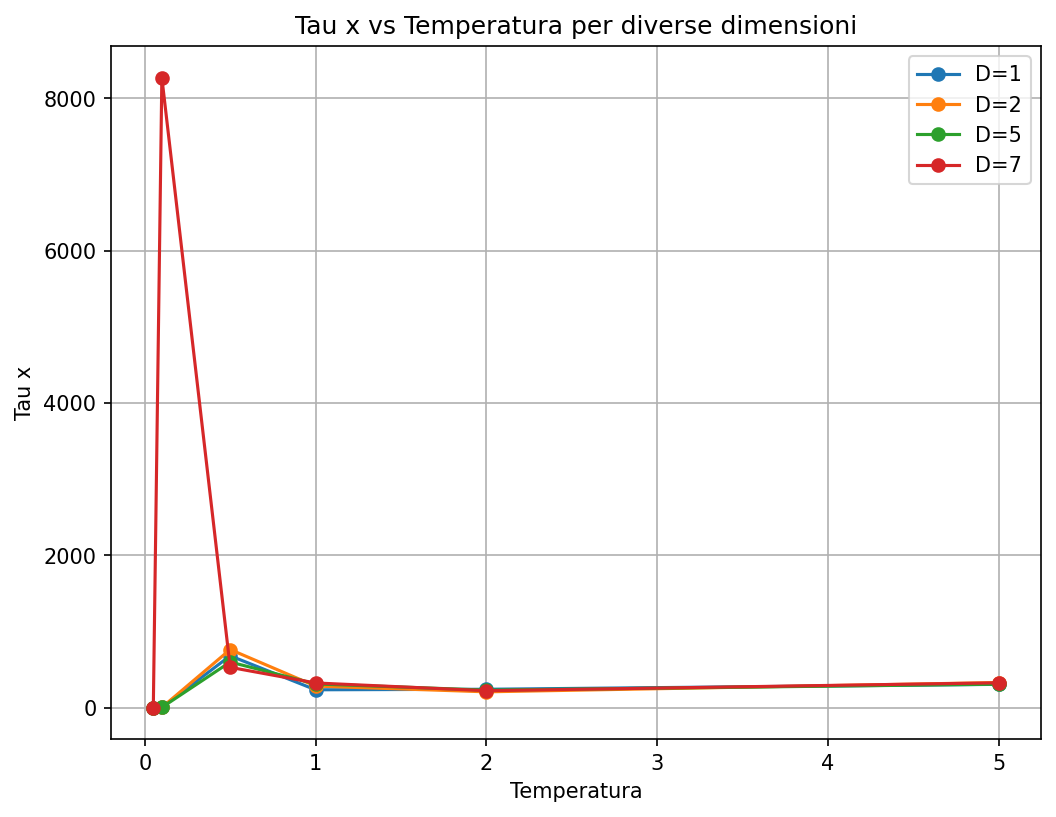
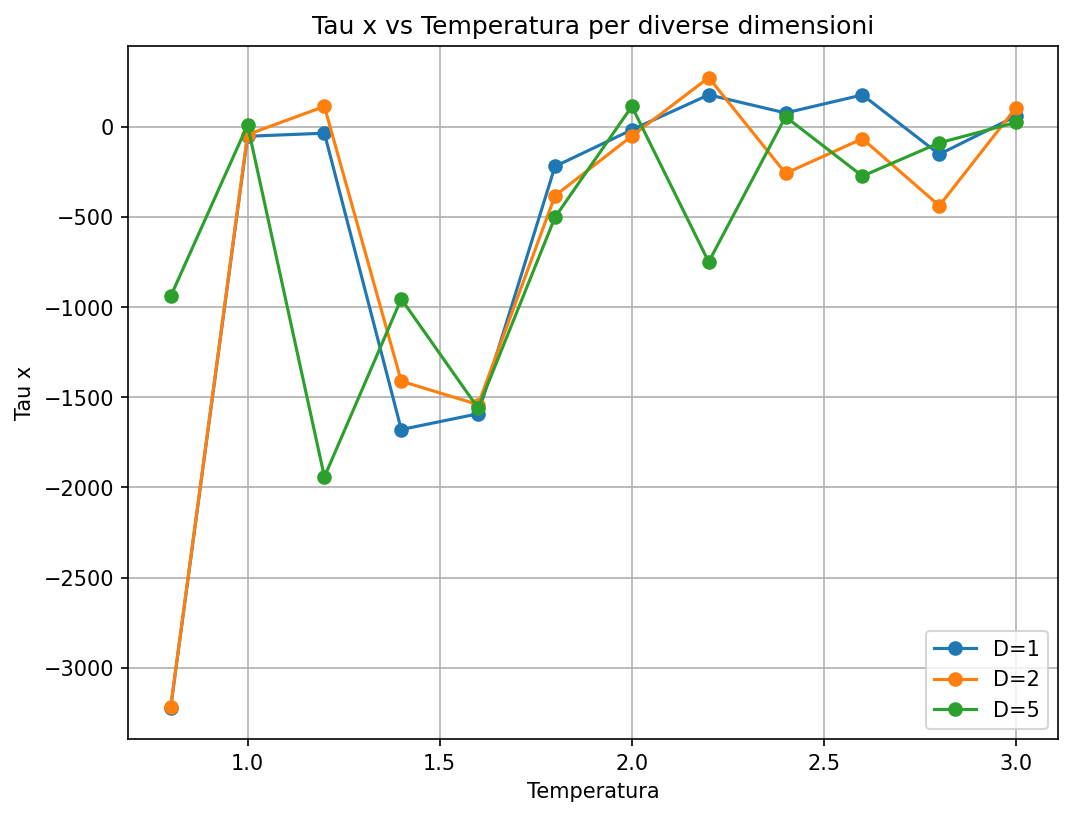
minor changes, runned the code, result in report

diff --git a/source/observable.py b/source/observable.py
@@ -1,23 +1,41 @@
 import jax 
 import jax.numpy as jnp
 
+def blocking_error(data, block_size):
+    n_blocks = len(data) // block_size
+    data = data[:n_blocks * block_size]
+
+    blocks = data.reshape(n_blocks, block_size)
+    means = jnp.mean(blocks, axis=1)
+
+    err = jnp.sqrt(jnp.var(means)/(n_blocks-1))
+
+    return err
+
 @jax.jit
 def V(x, a=1.0, b=1.0):
     if x.shape[0] == 1:
         return a * (x[0]**2 - b)**2
     else:
         return a * (x[0]**2 - b)**2 + 0.5 * jnp.sum(x[1:]**2)
-    
-def mean_energy(trajectory):
-    energies = jax.vmap(V)(trajectory)
-    return jnp.mean(energies)
 
-def heat_capacity(trajectory, T):
+def mean_energy(trajectory, block_size):
+    energies = jax.vmap(V)(trajectory)
+    mean_energy = jnp.mean(energies)
+    # error on mean energy using blocking
+    E_mean_err = blocking_error(energies, block_size)
+    return mean_energy, E_mean_err
+
+def heat_capacity(trajectory, T, block_size):
     energies = jax.vmap(V)(trajectory)
     mean_E = jnp.mean(energies)
     mean_E2 = jnp.mean(energies**2)
     Cv = (mean_E2 - mean_E**2) / (T**2)
-    return Cv
+    # error on Cv using blocking
+    E_mean_err = blocking_error(energies, block_size)
+    E_2_mean_err = blocking_error(energies**2, block_size)
+    Cv_err = jnp.sqrt((E_2_mean_err**2 + 4*mean_E**2*E_mean_err**2) / (T**4))
+    return Cv, Cv_err
 
 def autocorrelation(x):
     x = x - jnp.mean(x)
@@ -36,48 +54,22 @@ def integrated_autocorrelation_time(x, c=5.0):
     tau = 0.5
     for t in range(1, len(corr)):
         tau += corr[t]
-        if t >= c * tau:  # stop when t exceeds c times the current estimate of tau
-            break
     return tau
-
-def barrier_crossings_rate(trajectory, eps=1e-3):
-    x = trajectory[:,0]
-
-    valid = jnp.abs(x) > eps
-    x = x[valid]
-
-    signs = jnp.sign(x)
-
-    return jnp.sum(signs[:-1] * signs[1:] < 0)/len(x) # rate of crossings per unit time
-
-def blocking_error(data, block_size):
-    n_blocks = len(data) // block_size
-    data = data[:n_blocks * block_size]
-
-    blocks = data.reshape(n_blocks, block_size)
-    means = jnp.mean(blocks, axis=1)
-
-    err = jnp.sqrt(jnp.var(means)/(n_blocks-1))
-
-    return err
 
 def append_observables(results, trajectories, D, T, trajectory, acceptance_rate):
     tau_x= integrated_autocorrelation_time(trajectory[:,0])
-    block_size = max(10, 2*int(tau_x))
-    E_mean = mean_energy(trajectory)
-    E_mean_err = blocking_error(jax.vmap(V)(trajectory), block_size)
-    Cv = heat_capacity(trajectory, T)
-    crossings_r = barrier_crossings_rate(trajectory)
-    crossings_r_err = jnp.sqrt(crossings_r)/len(trajectory[:,0])  # standard error assuming Poisson distribution
+    block_size = int(jnp.maximum(10, 5*tau_x))
+    E_mean, E_mean_err = mean_energy(trajectory, block_size)
+    Cv, Cv_err = heat_capacity(trajectory, T, block_size)
 
     results[D]["T"].append(T)
+    
     results[D]["E_mean"].append(E_mean)
     results[D]["E_mean_err"].append(E_mean_err)
     results[D]["Cv"].append(Cv)
+    results[D]["Cv_err"].append(Cv_err)
     results[D]["acceptance"].append(acceptance_rate)
     results[D]["tau_x"].append(tau_x)
-    results[D]["barrier_crossings_rate"].append(crossings_r)
-    results[D]["barrier_crossings_rate_err"].append(crossings_r_err)
 
     trajectories[D].append(trajectory[:,0])
     

diff --git a/source/metropolis.py b/source/metropolis.py
@@ -3,26 +3,27 @@ import jax.numpy as jnp
 import functools
 import observable as obs
 
-@functools.partial(jax.jit, static_argnums=(1,2))
 def generate_config(key, D, type="uniform"):
-    key, subkey = jax.random.split(key)
     if type == "uniform":
-        x = jax.random.uniform(subkey, shape=(D,))
+        return generate_uniform_vec(key, D)
     elif type == "normal":
-        x = jax.random.normal(subkey, shape=(D,))
+        return generate_normal_vec(key, D)
     elif type == "zeros":
-        x = jnp.zeros(D)
+        return jnp.zeros(D), key
     elif type == "ones":
-        x = jnp.ones(D)
+        return jnp.ones(D), key
     else:
-        raise ValueError(f"Tipo di configurazione sconosciuto: {type}")
-    return x, key
+        raise ValueError("Tipo non valido")
 
 @functools.partial(jax.jit, static_argnums=(1,))
-def generate_normal(key,D):
+def generate_uniform_vec(key, D):
     key, subkey = jax.random.split(key)
-    x = jax.random.normal(subkey, shape=(D,))
-    return x, key
+    return jax.random.uniform(subkey, shape=(D,)), key
+
+@functools.partial(jax.jit, static_argnums=(1,))
+def generate_normal_vec(key, D):
+    key, subkey = jax.random.split(key)
+    return jax.random.normal(subkey, shape=(D,)), key
     
 @jax.jit
 def generate_uniform(key):
@@ -36,13 +37,13 @@ def metropolis_acceptance(delta_E, T):
     return A
 
 @jax.jit
-def metropolis_step(x, key, T, step_size=0.1):
+def metropolis_step(x, key, T, step_size=0.1, a=1.0, b=1.0):
     D = x.shape[0]
     # new proposed configuration
-    eta, key = generate_normal(key,D)
+    eta, key = generate_normal_vec(key,D)
     x_proposed = x + step_size * eta
     # delta energy between new and old configuration
-    delta_E = obs.V(x_proposed) - obs.V(x)
+    delta_E = obs.V(x_proposed,a,b) - obs.V(x,a,b)
     # acceptance of the new configuration
     accept_prob = metropolis_acceptance(delta_E, T)
     u, key = generate_uniform(key)
@@ -51,7 +52,7 @@ def metropolis_step(x, key, T, step_size=0.1):
     return x_new, key, accept
 
 @functools.partial(jax.jit, static_argnums=(2,))
-def run_simulation(key, T, n_steps, step_size=0.1, initial_x=None):
+def run_simulation(key, T, n_steps, step_size=0.1, initial_x=None, a=1.0, b=1.0):
     if initial_x is None:
         raise ValueError("initial_x must be provided")
     
@@ -59,7 +60,7 @@ def run_simulation(key, T, n_steps, step_size=0.1, initial_x=None):
 
     def body(carry, _):
         x, key, acc = carry
-        x, key, accepted = metropolis_step(x, key, T, step_size)
+        x, key, accepted = metropolis_step(x, key, T, step_size, a, b)
         return (x, key, acc + accepted), x
 
     (x, key, acceptances), trajectory = jax.lax.scan(

diff --git a/source/main.py b/source/main.py
@@ -6,11 +6,14 @@ import jax.numpy as jnp
 
 
 def main():
-    dimensions = [1, 2, 5, 7]
-    temperatures = [0.05 ,0.1, 0.5, 1.0, 2.0, 5.0]
-    n_thermalization = 200000
-    n_steps = 100000
-    step_size = 0.1
+    dimensions = [1, 2, 5]
+    temperatures = jnp.linspace(0.5, 3.0, 6)
+    n_thermalization = 100000
+    n_steps = 10000
+    step_size = 0.2
+    # potential parameters
+    a = 1.0
+    b = 2.0
 
     trajectories = {}
     results = {}
@@ -25,29 +28,28 @@ def main():
             "Cv": [],
             "Cv_err": [],
             "acceptance": [],
-            "tau_x": [],
-            "barrier_crossings_rate": [],
-            "barrier_crossings_rate_err": []
+            "tau_x": []
         }
 
         key = jax.random.PRNGKey(0)
         x, key = metro.generate_config(key, D, "ones")
 
         for T in temperatures:
-            # thermalization
-            _, _, key , x = metro.run_simulation(key, T, n_thermalization, step_size, initial_x=x)
+            # thermalization 
+            _, _, key , x = metro.run_simulation(key, T, n_thermalization, step_size, initial_x=x, a=a, b=b)
+            # x is the last configuration of the thermalization, used as initial configuration for the production
             # production
             trajectory, acceptance_rate, key , x = metro.run_simulation(
-                key, T, n_steps, step_size, initial_x=x)
+                key, T, n_steps, step_size, initial_x=x, a=a, b=b)
+            # x is the last configuration of the trajectory, used as initial configuration for the next temperature
             # append observables to results
             obs.append_observables(results,trajectories, D, T, trajectory, acceptance_rate)
             print(f"D={D}, T={T:.3f}.")
     # plot results
     plot.plot_obs__D_T(results, dimensions, "E_mean", error=True)
-    plot.plot_obs__D_T(results, dimensions, "Cv")
+    plot.plot_obs__D_T(results, dimensions, "Cv", error=True)
     plot.plot_obs__D_T(results, dimensions, "tau_x")
     plot.plot_obs__D_T(results, dimensions, "acceptance")
-    plot.plot_obs__D_T(results, dimensions, "barrier_crossings_rate", error=True)
     plot.plot_trajectory(trajectories, temperatures, dimensions, bins=30)
 
 if __name__ == "__main__":
